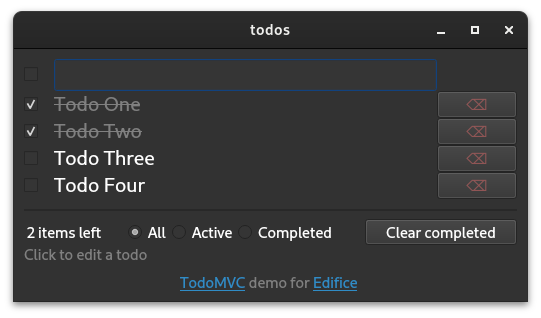
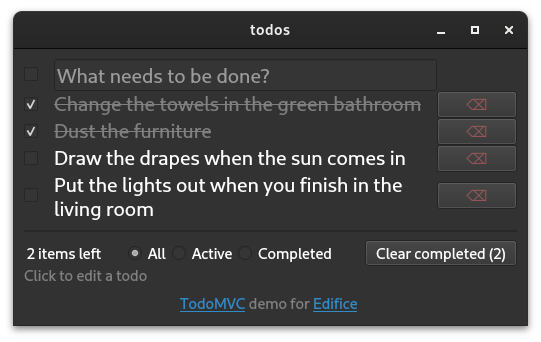
TextInput placeholder_text

diff --git a/edifice/base_components/base_components.py b/edifice/base_components/base_components.py
@@ -1140,6 +1140,9 @@ class TextInput(QtWidgetElement):
 
     Args:
         text: Initial text of the text input
+        placeholder_text: “makes the line edit display a grayed-out placeholder
+            text as long as the line edit is empty.”
+            See `placeHolderText <https://doc.qt.io/qtforpython-6/PySide6/QtWidgets/QLineEdit.html#PySide6.QtWidgets.PySide6.QtWidgets.QLineEdit.placeholderText>`_
         on_change:
             Callback for when the value of the text input changes.
             The callback is passed the changed
@@ -1153,7 +1156,8 @@ class TextInput(QtWidgetElement):
     #TODO Note that you can set an optional Completer, giving the dropdown for completion.
 
     def __init__(self,
-        text: tp.Any = "",
+        text: str = "",
+        placeholder_text: str = "",
         on_change: tp.Callable[[tp.Text], None | tp.Awaitable[None]] = (lambda text: None),
         on_edit_finish: tp.Callable[[], None | tp.Awaitable[None]] = (lambda: None),
         # completer: tp.Optional[Completer] = None,
@@ -1161,6 +1165,7 @@ class TextInput(QtWidgetElement):
     ):
         self.register_props({
             "text": text,
+            "placeholder_text": placeholder_text,
             "on_change": on_change,
             "on_edit_finish": on_edit_finish,
         })
@@ -1221,6 +1226,8 @@ class TextInput(QtWidgetElement):
                 commands.append(_CommandType(self._set_on_edit_finish, newprops[prop]))
     #         elif prop == "completer":
     #             commands.append((self._set_completer, newprops[prop]))
+            elif prop == "placeholder_text":
+                commands.append(_CommandType(widget.setPlaceholderText, newprops[prop]))
         return commands
 
 
@@ -1644,17 +1651,18 @@ class _LinearView(QtWidgetElement):
 
 
 class View(_LinearView):
-    """Basic layout widget for grouping children together
+    """Basic layout widget for grouping children together.
 
-    Content that does not fit into the View layout will be clipped.
+    Content that does not fit into the `View` layout will be clipped.
     To allow scrolling in case of overflow, use :class:`ScrollView<edifice.ScrollView>`.
 
     Args:
-        layout: one of column, row, or none.
+        layout: one of :code:`"column", :code:`"row"`, or :code:`None`.
+
             A row layout will lay its children in a row and a column layout will lay its children in a column.
-            When row or column layout are set, the position of their children is not adjustable.
-            If layout is none, then all children by default will be positioend at the upper left-hand corner
-            of the View (x=0, y=0). Children can set the `top` and `left` attributes of their style
+            When :code:`layout="row"` or :code:`layout="column"` are set, the position of their children is not adjustable.
+            If layout is :code:`None`, then all children by default will be positioend at the upper left-hand corner
+            of the `View` (x=0, y=0). Children can set the `top` and `left` attributes of their style
             to position themselves relevative to their parent.
     """
 

diff --git a/examples/todomvc.py b/examples/todomvc.py
@@ -126,7 +126,7 @@ def TodoMVC(self):
                         text = input,
                         on_change = handle_change,
                         on_key_up = handle_key_up,
-                        tool_tip="What needs to be done?",
+                        placeholder_text = "What needs to be done?",
                         style={"font-size":20},
                     )
                 for key,todo in todos.items():
@@ -167,7 +167,7 @@ def TodoMVC(self):
                         with View(style={"min-width":180, "margin-left": 10, "align": "right"}):
                             if len(todos) > 0 and len(todos) > items_left:
                                 Button(
-                                    title="Clear completed",
+                                    title = "Clear completed (" + str(len(todos) - items_left) + ")",
                                     on_click=clear_completed,
                                     style={"width":150},
                                 )
